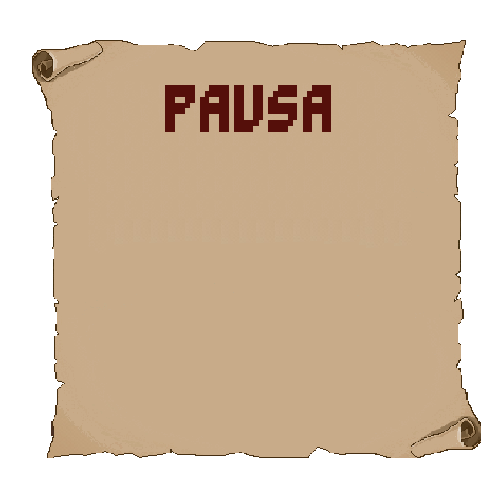
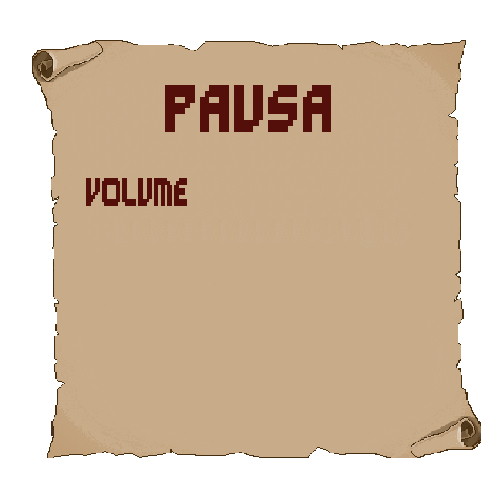
pausa

Changed region(s): [[0.15, 0.33, 0.39, 0.42]]

diff --git a/projeto/Pausa.js b/projeto/Pausa.js
@@ -1,0 +1,189 @@
+class Pausa extends Phaser.Scene {
+    
+    constructor(){
+        super("pausa");
+    }
+    init(data){
+        this.background=data.background;
+        this.sceneName=data.sceneName;
+    }
+    create(){
+
+        console.log("tempo: "+this.tempo);
+        this.background=this.background;
+        this.veil=this.add.graphics({x:0,y:0});
+        this.veil.fillStyle('0x000000',0.3);
+        this.veil.fillRect(0,0,config.width, config.height);
+        this.imagem = this.add.image(config.width/2,config.height/2,'pausa');
+
+        this.btnMenosM = this.add.image(340,290,'btnMenos');
+        this.btnMenosM.setScale(0.028);
+        this.btnMenoscM = this.add.image(340,290,'btnMenosc');
+        this.btnMenoscM.setScale(0.119);
+        this.btnMenoscM.visible=false;
+        
+        this.btnMaisM = this.add.image(420,290,'btnMais');
+        this.btnMaisM.setScale(0.028);
+        this.btnMaiscM = this.add.image(420,290,'btnMaisc');
+        this.btnMaiscM.setScale(0.119);
+        this.btnMaiscM.visible=false;
+        
+        
+        this.btnMuteM = this.add.image(500,290,'btnMute');
+        this.btnMuteM.setScale(0.028);
+        // this.btnMuteM.visible=false;
+        this.btnMutecM = this.add.image(500,290,'btnMutec');
+        this.btnMutecM.setScale(0.119);
+        this.btnMutecM.visible=false;
+
+        this.btnUnmuteM = this.add.image(500,290,'btnUnmute');
+        this.btnUnmuteM.setScale(0.028);
+        this.btnUnmuteM.visible=false;
+        this.btnUnmutecM = this.add.image(500,290,'btnUnmutec');
+        this.btnUnmutecM.setScale(0.014);
+        this.btnUnmutecM.visible=false;
+
+        
+        //btn voltar
+        this.btnVoltar = this.add.image(350,380,'btnVoltar');
+        this.btnVoltar.setScale(0.07);
+        this.btnVoltarc = this.add.image(350,380,'btnVoltarc');
+        this.btnVoltarc.setScale(0.3);
+        this.btnVoltarc.visible=false;
+
+        //btn sair
+        this.btnSair = this.add.image(350,460,'btnSair');
+        this.btnSair.setScale(0.07);
+        this.btnSairc = this.add.image(350,460,'btnSairc');
+        this.btnSairc.setScale(0.3);
+        this.btnSairc.visible=false;
+        
+
+        //interações do btnVoltar
+        this.btnVoltar.setInteractive();
+
+        this.btnVoltar.on("pointerover", ()=>{
+            console.log("over Voltar");
+            this.game.canvas.style.cursor = "pointer";
+            this.btnVoltarc.visible=true;
+        });
+        this.btnVoltar.on("pointerout", ()=>{
+            console.log("out Voltar");
+            this.game.canvas.style.cursor = "default";
+            this.btnVoltarc.visible=false;
+        });
+        this.btnVoltar.on("pointerup", ()=>{
+            console.log("up Voltar");
+            this.game.canvas.style.cursor = "default";
+            this.scene.stop();
+            this.scene.resume(this.sceneName);
+        });
+
+
+        //interações do btnMaisM
+        this.btnMaisM.setInteractive();
+
+        this.btnMaisM.on("pointerover", ()=>{
+            console.log("over MaisM");
+            this.game.canvas.style.cursor = "pointer";
+            this.btnMaiscM.visible=true;
+        });
+        this.btnMaisM.on("pointerout", ()=>{
+            console.log("out MaisM");
+            this.game.canvas.style.cursor = "default";
+            this.btnMaiscM.visible=false;
+        });
+        this.btnMaisM.on("pointerup", ()=>{
+            console.log("up MaisM");
+            // this.volume += 0.2;
+            // this.musica.setVolume(volume);
+            // console.log(volume);
+        });
+
+        //interações do btnMenosM
+        this.btnMenosM.setInteractive();
+
+        this.btnMenosM.on("pointerover", ()=>{
+            console.log("over MenosM");
+            this.game.canvas.style.cursor = "pointer";
+            this.btnMenoscM.visible=true;
+        });
+        this.btnMenosM.on("pointerout", ()=>{
+            console.log("out MenosM");
+            this.game.canvas.style.cursor = "default";
+            this.btnMenoscM.visible=false;
+        });
+        this.btnMenosM.on("pointerup", ()=>{
+            console.log("up MenosM");
+            // this.volume -= 0.2;
+            // this.musica.setVolume(volume);
+            // console.log(musica.volume);
+            
+        });
+
+        //interações do btnMuteM
+        this.btnMuteM.setInteractive();
+
+        this.btnMuteM.on("pointerover", ()=>{
+            console.log("over MuteM");
+            this.game.canvas.style.cursor = "pointer";
+            this.btnMutecM.visible=true;
+        });
+        this.btnMuteM.on("pointerout", ()=>{
+            console.log("out MuteM");
+            this.game.canvas.style.cursor = "default";
+            this.btnMutecM.visible=false;
+        });
+        this.btnMuteM.on("pointerup", ()=>{
+            console.log("up MuteM");
+            this.btnMuteM.visible = false;
+            this.btnMutecM.visible = false;
+            this.btnUnmuteM.visible = true;
+        });
+
+        //interações do btnMuteM
+        this.btnUnmuteM.setInteractive();
+
+        this.btnUnmuteM.on("pointerover", ()=>{
+            console.log("over UnmuteM");
+            this.game.canvas.style.cursor = "pointer";
+            this.btnUnmutecM.visible=true;
+        });
+        this.btnUnmuteM.on("pointerout", ()=>{
+            console.log("out UnmuteM");
+            this.game.canvas.style.cursor = "default";
+            this.btnUnmutecM.visible=false;
+        });
+        this.btnUnmuteM.on("pointerup", ()=>{
+            console.log("up UnmuteM");
+            this.btnUnmutecM.visible = false;
+            this.btnUnmuteM.visible = false;
+            this.btnMuteM.visible = true;
+            // this.scene.setMute(true);
+        });
+
+        //interações do btnSair
+        this.btnSair.setInteractive();
+
+        this.btnSair.on("pointerover", ()=>{
+            console.log("over Sair");
+            this.game.canvas.style.cursor = "pointer";
+            this.btnSairc.visible=true;
+        });
+        this.btnSair.on("pointerout", ()=>{
+            console.log("out Sair");
+            this.game.canvas.style.cursor = "default";
+            this.btnSairc.visible=false;
+        });
+        this.btnSair.on("pointerup", ()=>{
+            //this.game.canvas.style.cursor = "default";
+            this.scene.stop();
+            this.scene.stop("cenario1");
+            this.scene.stop("caverna");
+            this.scene.stop("pergunta");
+            this.scene.launch("menu1");
+            console.log("up Sair");
+        });
+        
+    }
+}

diff --git a/projeto/Cenario1.js b/projeto/Cenario1.js
@@ -29,6 +29,7 @@ class Cenario1 extends Phaser.Scene {
         this.player.y = this.posY;
 
         this.cursors = this.input.keyboard.createCursorKeys();
+        this.pause = this.input.keyboard.addKey(Phaser.Input.Keyboard.KeyCodes.ESC);
 
         this.setaD = this.physics.add.staticGroup();
         this.setaD.create(670,400,'setaRight');
@@ -48,7 +49,7 @@ class Cenario1 extends Phaser.Scene {
     update(){
         this.tempoAtual=Math.floor(this.tempo+this.timer.getElapsedSeconds());
         this.text.setText('Tempo: '+ this.tempoAtual);
-
+    
         if (this.cursors.left.isDown){
             this.player.setVelocityX(-gameSettings.playerSpeed);
             this.player.anims.play("left", true);
@@ -83,6 +84,11 @@ class Cenario1 extends Phaser.Scene {
             this.player.anims.play("stop");
         }
         
+        if(Phaser.Input.Keyboard.JustDown(this.pause)){
+            this.scene.pause();
+            this.scene.launch("pausa",{background:this.background, sceneName:"cenario1"});
+        }
+        
         this.colCenario();
     }
 
@@ -91,4 +97,5 @@ class Cenario1 extends Phaser.Scene {
             this.player.y=200;
         }
     }
+
 }

diff --git a/projeto/Caverna.js b/projeto/Caverna.js
@@ -29,6 +29,7 @@ class Caverna extends Phaser.Scene {
         this.player.y = this.posY;
 
         this.cursors = this.input.keyboard.createCursorKeys();
+        this.pause = this.input.keyboard.addKey(Phaser.Input.Keyboard.KeyCodes.ESC);
 
         this.setaD = this.physics.add.staticGroup();
         this.setaD.create(650,400,'setaRight');
@@ -91,6 +92,11 @@ class Caverna extends Phaser.Scene {
             this.player.setVelocityY(0);
             this.player.setVelocityX(0);
             this.player.anims.play("stop");
+        }
+
+        if(Phaser.Input.Keyboard.JustDown(this.pause)){
+            this.scene.pause();
+            this.scene.launch("pausa",{background:this.background, sceneName:"caverna"});
         }
 
         this.pergunta();

diff --git a/projeto/Load.js b/projeto/Load.js
@@ -39,6 +39,7 @@ class Load extends Phaser.Scene {
         this.load.json('perguntas',"./perguntas.json");
         this.load.image('cena1','./resources/cenario1.png');
         this.load.image('caverna','./resources/caverna.png');
+        this.load.image('pausa', './resources/pausa.png');
         this.load.image('setaLeft', "./resources/seta_left.png");
         this.load.image('setaRight', "./resources/seta_right.png");
         this.load.image('perg','./resources/falatemp.png');

diff --git a/projeto/jogo.js b/projeto/jogo.js
@@ -27,7 +27,7 @@ var config = {
         createContainer: true
     },
     backgroundColor: 0xffffff,
-    scene: [Inicial,Load,Menu1,Ranking,Ajuda,Creditos,Opcoes,Jogar1,NomeUser,Sair,Cenario1,Caverna,Pergunta],
+    scene: [Inicial,Load,Menu1,Ranking,Ajuda,Creditos,Opcoes,Jogar1,NomeUser,Sair,Cenario1,Caverna,Pergunta,Pausa],
     pixelAtr: true,
     physics: {
         default: 'arcade',

diff --git a/projeto/main.html b/projeto/main.html
@@ -15,6 +15,7 @@
         <script type="text/javascript"src="Cenario1.js"></script>
         <script type="text/javascript"src="Caverna.js"></script>
         <script type="text/javascript"src="Pergunta.js"></script>
+        <script type="text/javascript"src="Pausa.js"></script>
         <script type="text/javascript"src="jogo.js"></script>
         <meta charset="utf-8" />
     </head>

diff --git a/projeto/Inicial.js b/projeto/Inicial.js
@@ -40,7 +40,7 @@ class Inicial extends Phaser.Scene {
             console.log("up Comecar");
             this.game.canvas.style.cursor = "default";
             this.musica = this.sound.add("musica", musicaConfig);
-            this.musica.play(musicaConfig);
+            // this.musica.play(musicaConfig);
             this.scene.start("load")
         });
 
